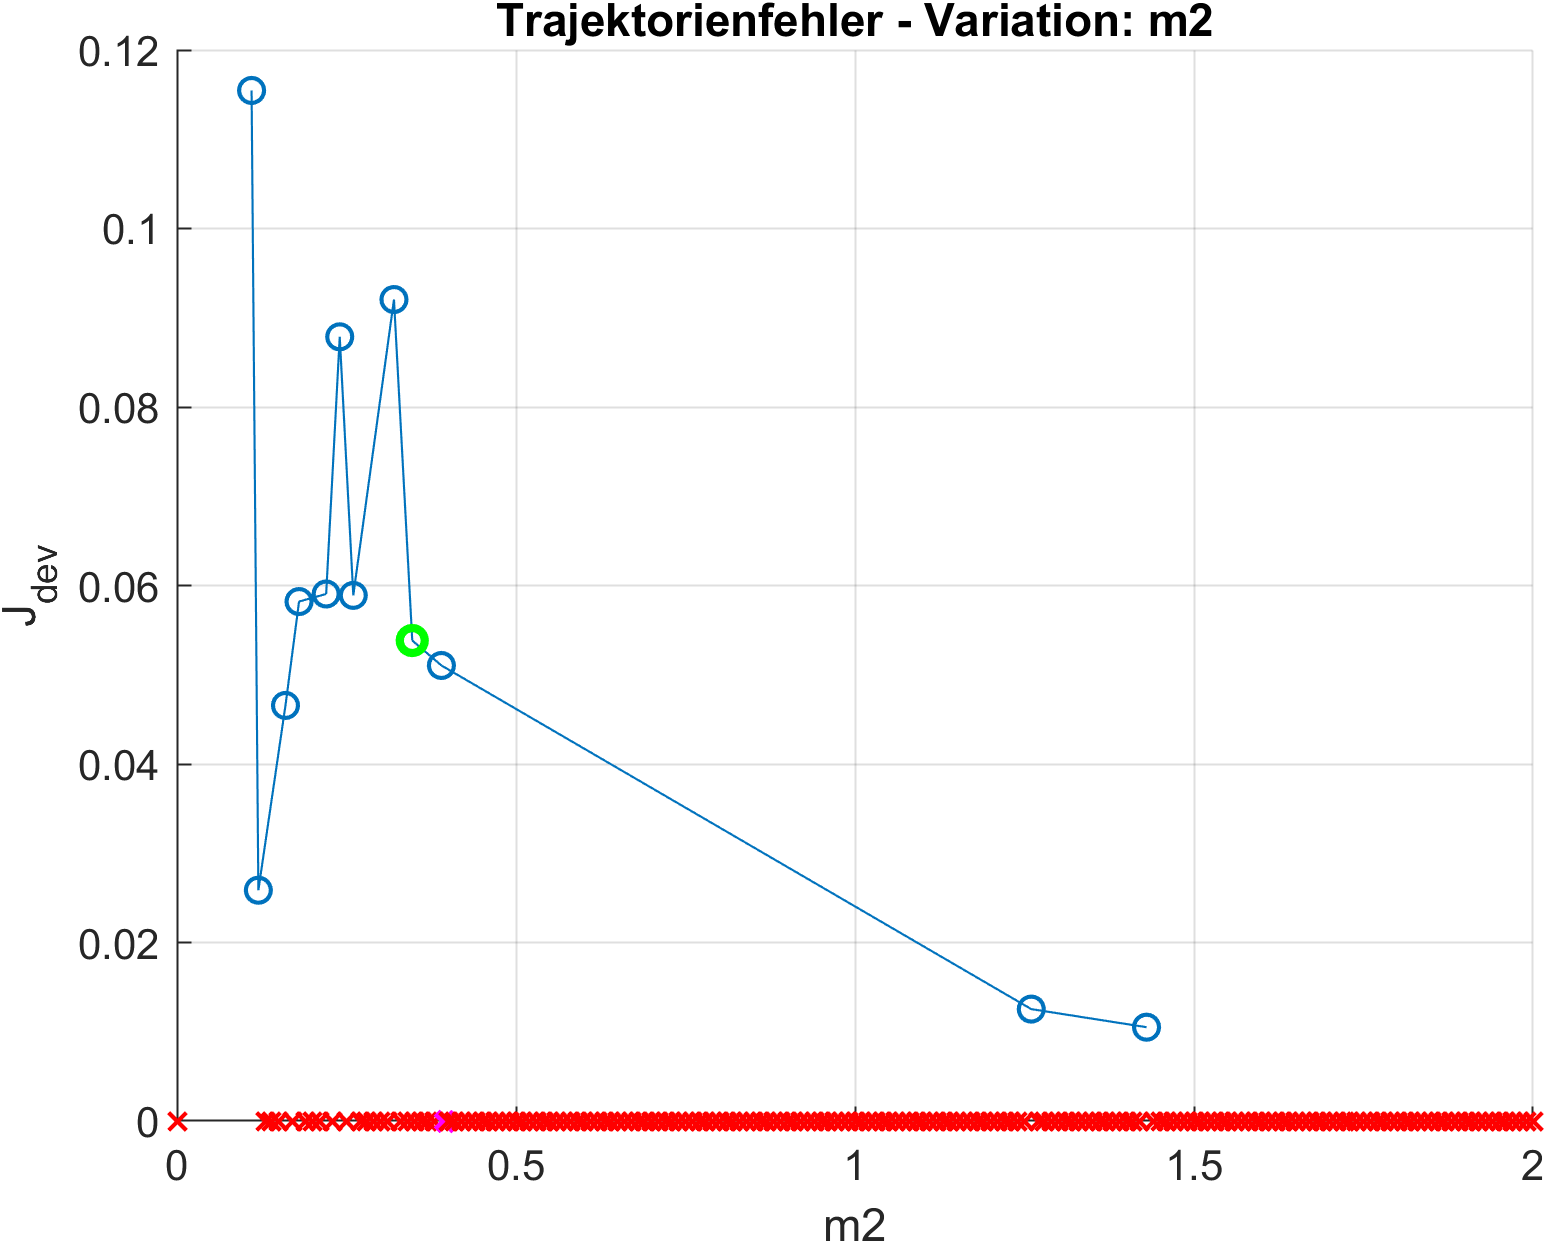
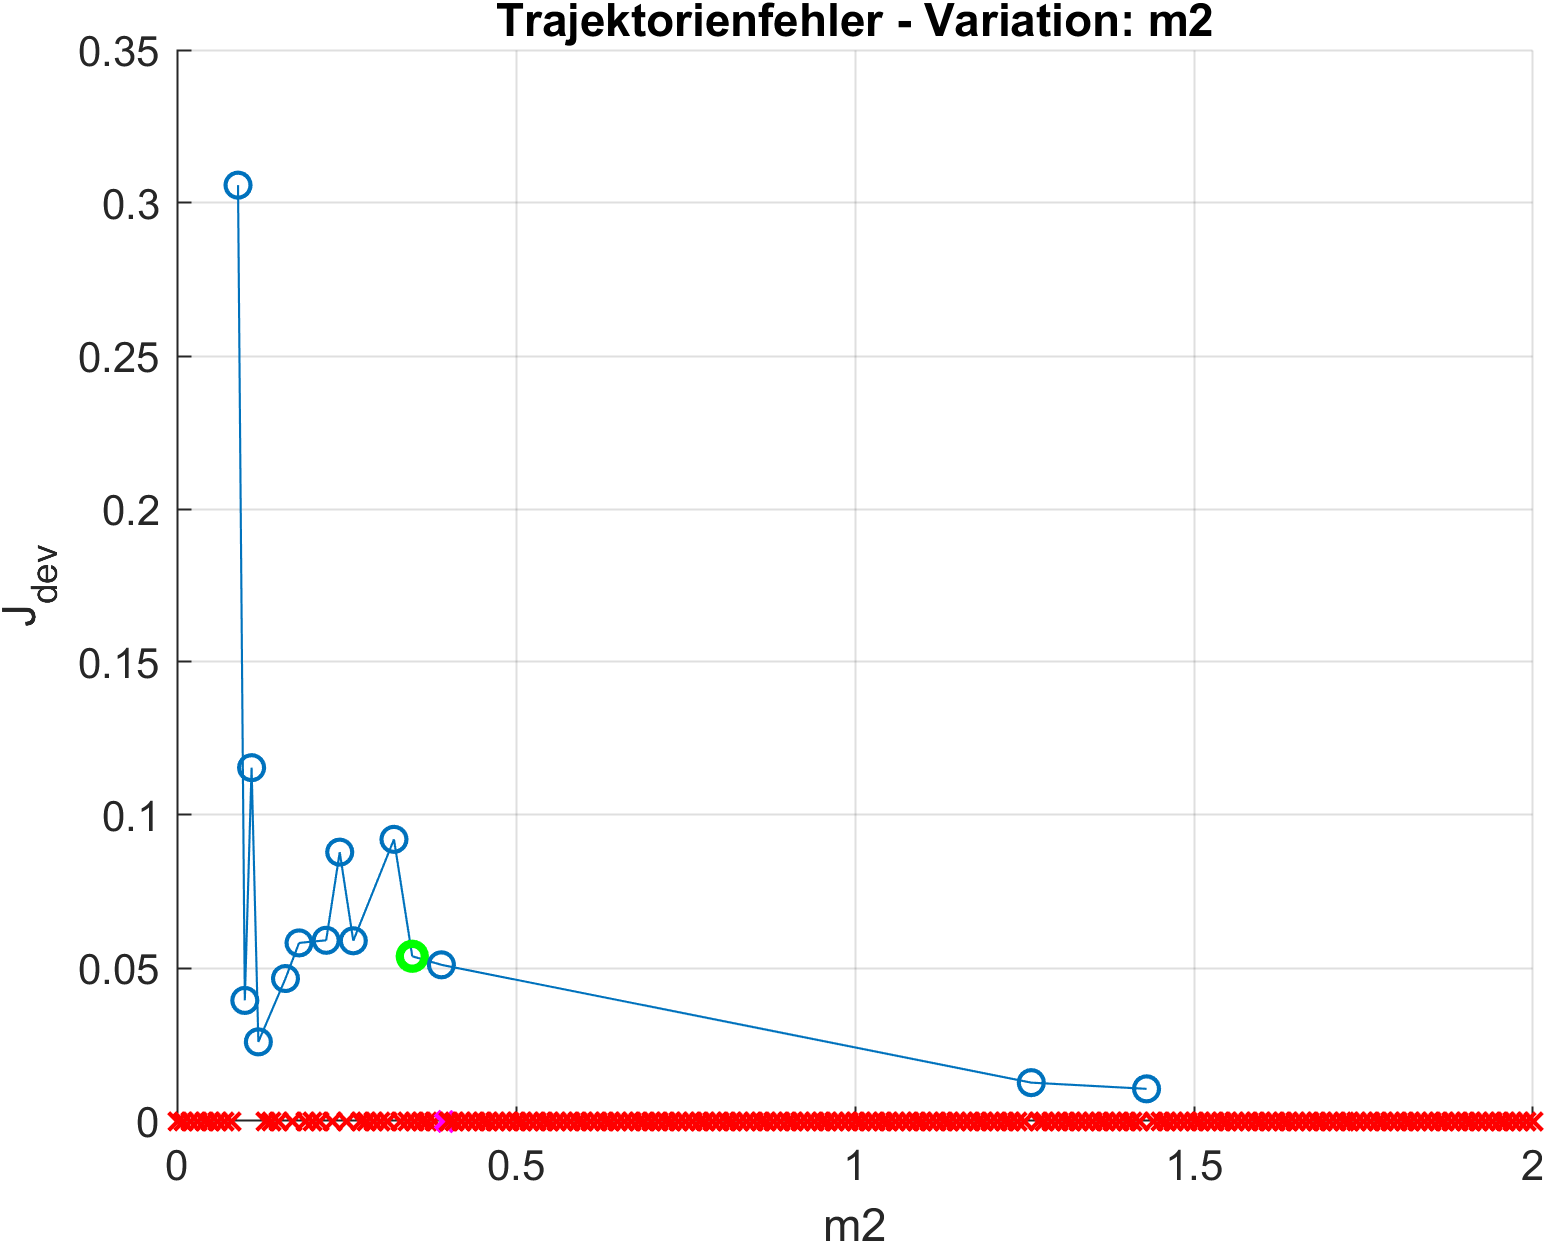
Clausthal + Ribeiro Adresse

diff --git a/Trajektorien/ToDo_run.m b/Trajektorien/ToDo_run.m
@@ -15,37 +15,18 @@ u_max = 410;
 simSol='RK4';
 paramsSource= 'app09';
 
-poi = 'm2';
-poi_val = 0.01:0.01:0.1;
+poi = 'J2';
+val = 0:0.0001:0.02; del = 0:0.002:0.02;
+poi_val = []; cnt = 1;
+for i=1 : length(val)
+    if ~ismember(val(i),del)
+        poi_val(cnt)=val(i); cnt=cnt+1;
+    end
+end
 examParameters(poi, poi_val, N, T, simSol, paramsSource, u_max)
-% poi_val = 1.41:0.01:1.59;
-% examParameters(poi, poi_val, N, T, simSol, paramsSource, u_max)
-% poi_val = 1.61:0.01:1.79;
-% examParameters(poi, poi_val, N, T, simSol, paramsSource, u_max)
-% poi_val = 1.81:0.01:1.99;
-% examParameters(poi, poi_val, N, T, simSol, paramsSource, u_max)
+poi = 'J1';
+examParameters(poi, poi_val, N, T, simSol, paramsSource, u_max)
 
-poi = 'm1';
-poi_val = 0.01:0.01:0.1;
-examParameters(poi, poi_val, N, T, simSol, paramsSource, u_max)
-% poi_val = 0.11:0.01:0.19;
-% examParameters(poi, poi_val, N, T, simSol, paramsSource, u_max)
-% poi_val = 0.21:0.01:0.39;
-% examParameters(poi, poi_val, N, T, simSol, paramsSource, u_max)
-% poi_val = 0.41:0.01:0.49;
-% examParameters(poi, poi_val, N, T, simSol, paramsSource, u_max)
-% poi_val = 0.91:0.01:0.99;
-% examParameters(poi, poi_val, N, T, simSol, paramsSource, u_max)
-% poi_val = 1.01:0.01:1.19;
-% examParameters(poi, poi_val, N, T, simSol, paramsSource, u_max)
-% poi_val = 1.21:0.01:1.39;
-% examParameters(poi, poi_val, N, T, simSol, paramsSource, u_max)
-% poi_val = 1.41:0.01:1.59;
-% examParameters(poi, poi_val, N, T, simSol, paramsSource, u_max)
-% poi_val = 1.61:0.01:1.79;
-% examParameters(poi, poi_val, N, T, simSol, paramsSource, u_max)
-% poi_val = 1.81:0.01:1.99;
-% examParameters(poi, poi_val, N, T, simSol, paramsSource, u_max)
 % poi = ["m1", "m2", "J1", "J2", "s1", "s2"];
 % rib20 = SchlittenPendelParams_Ribeiro20(); 
 % for k=1 : length(poi)

diff --git a/Ausarbeitung Latex/Kapitel/Modell_Mot.tex b/Ausarbeitung Latex/Kapitel/Modell_Mot.tex
@@ -35,7 +35,7 @@ Am Versuchsstand wird dieser induzierte Gegenstrom bei geringen Winkelgeschwindi
 
 ABBILDUNG I(w)-Kennlinie
 
-Auf Grund der im Wandler integrierten Strombegrenzung zum Schutz von Motor und Verstärker ist der Stellstrom der Reglers zusätzlich begrenzt. Es wird im Rahmen dieser Arbeit idealisierend angenommen, dass der begrenzte Maximalstrom des Wandlers konstant gestellt werden kann bis zum Schnittpunkt mit der Stromkennlinie der Gegeninduktion. An dieser Stelle tritt ein "`Knick"' im von der Winkelgeschwindigkeit abhängigen Stromverlauf auf. Damit wird für die Modellierung vereinfachend angenommen, dass der Regler von der Strombegrenzung nicht betroffen ist und den Begrenzungsstrom noch bis zum "`Knick"' ausregeln kann.
+Auf Grund der im Wandler integrierten Strombegrenzung zum Schutz von Motor und Verstärker ist der Stellstrom des Reglers zusätzlich begrenzt. Es wird im Rahmen dieser Arbeit idealisierend angenommen, dass der begrenzte Maximalstrom des Wandlers konstant gestellt werden kann bis zum Schnittpunkt mit der Stromkennlinie der Gegeninduktion. An dieser Stelle tritt ein "`Knick"' im von der Winkelgeschwindigkeit abhängigen Stromverlauf auf. Damit wird für die Modellierung vereinfachend angenommen, dass der Regler von der Strombegrenzung nicht betroffen ist und den Begrenzungsstrom noch konstant bis zum "`Knick"' ausregeln kann.
 
 ABBILDUNG Ersatzschaltbild-Gleichstrommotor
 

diff --git a/Trajektorien/ParamsAuswertung_run.m b/Trajektorien/ParamsAuswertung_run.m
@@ -10,12 +10,12 @@ poi = ["m1", "m2", "J1", "J2", "s1", "s2"]; % Parameters of Interest
 i=1;
 poi_val = cell(length(poi),1);
 %% m1
-v1 = 0:0.2:2; v2 = 0.11:0.01:2;
-poi_val{i} = [v1(1), v2];
+v1 = 0:0.2:2; v2 = 0:0.01:2;
+poi_val{i} = v2;
 i=i+1;
 %% m2
-v1 = 0:0.2:2; v2 = 0.11:0.01:2;
-poi_val{i} = [v1(1), v2];
+v1 = 0:0.2:2; v2 = 0:0.01:2;
+poi_val{i} = v2;
 i=i+1;
 %% J1
 % poi_val = [0 0.002 0.004 0.006 0.0062 0.0064 0.00647 0.0066 0.0068 0.008 0.01 0.01128 0.012 0.014 0.016 0.018 0.02]; 

diff --git a/Modell/SchlittenPendelFunc.m b/Modell/SchlittenPendelFunc.m
@@ -1,6 +1,6 @@
 % Level 2 m-s-function : 'SchlittenPendelFunc.m'
 %
-% Created by sys2sfct at 09-Oct-2020 10:40:57 from the following system:
+% Created by sys2sfct at 09-Oct-2020 15:37:54 from the following system:
 % Name        : SchlittenPendel NLZSR (F)
 % Description : Nichtlineare Zustandsraumdarstellung des Schlitten-Doppelpendel-Systems (Eingang: F) (Parameter: Doppelpendel rtm (Ribeiro))
 %
